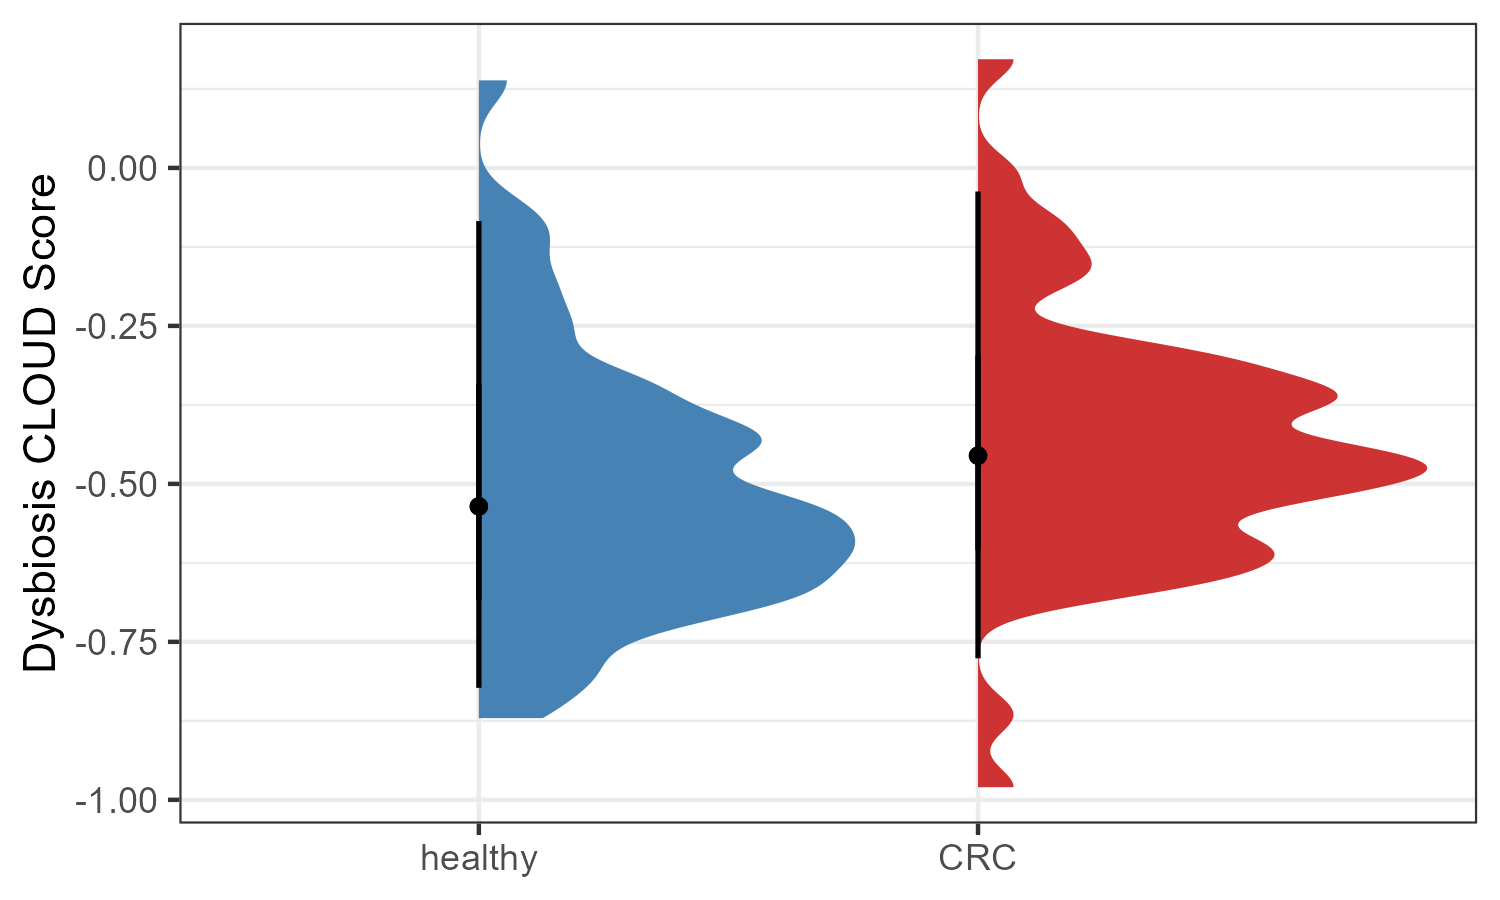
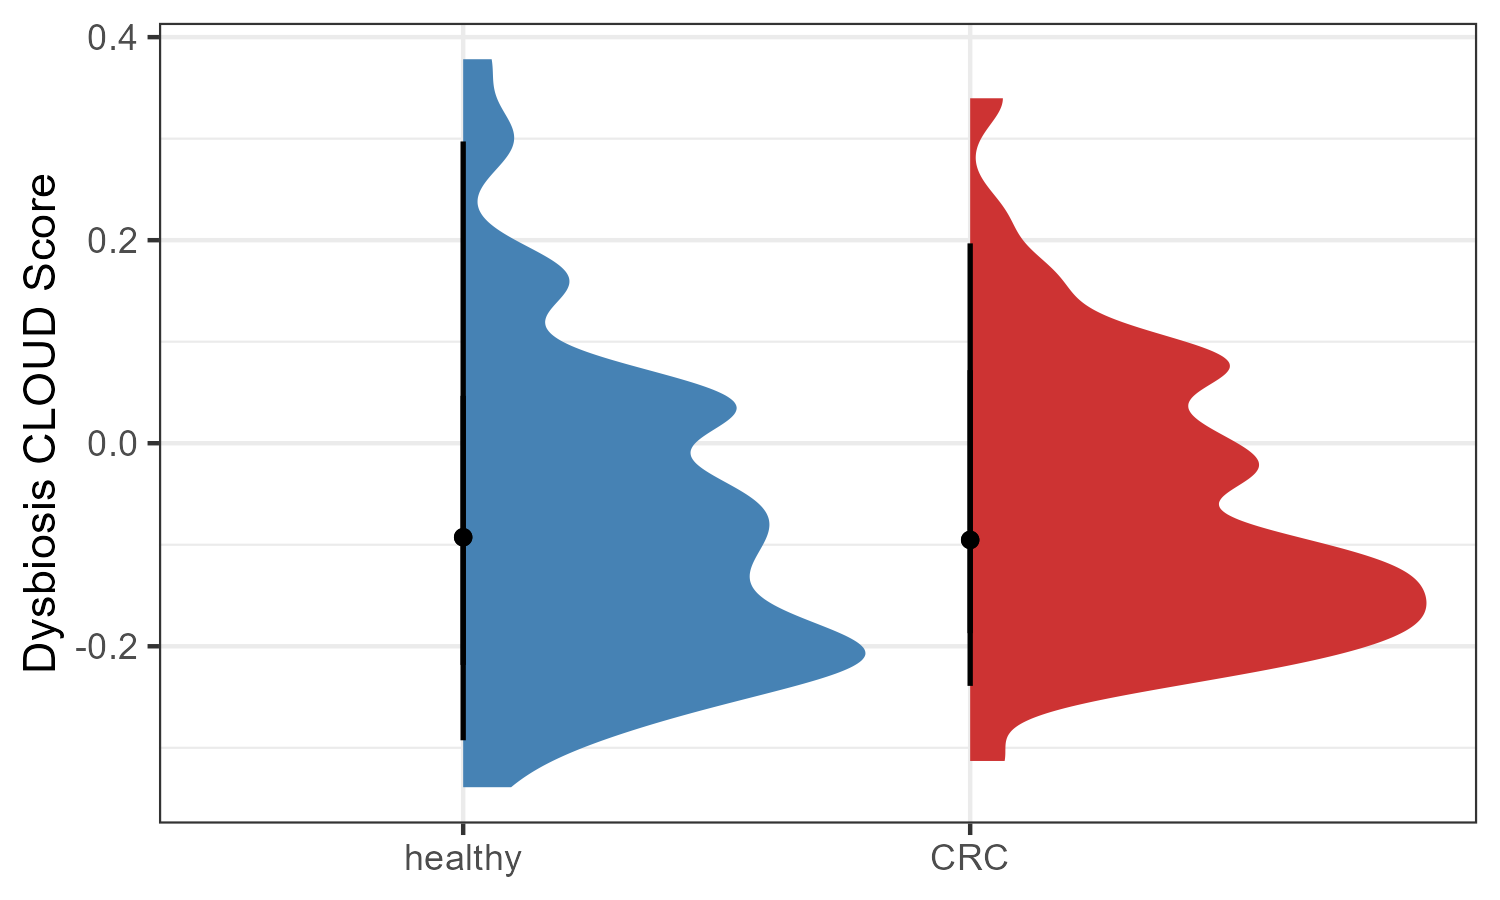
cleaning

diff --git a/docs/articles/Introduction.html b/docs/articles/Introduction.html
@@ -33,7 +33,7 @@
     
     <a class="navbar-brand me-2" href="../index.html">dysbiosisR</a>
 
-    <small class="nav-text text-muted me-auto" data-bs-toggle="tooltip" data-bs-placement="bottom" title="">0.1.0</small>
+    <small class="nav-text text-muted me-auto" data-bs-toggle="tooltip" data-bs-placement="bottom" title="">1.0.1</small>
 
     
     <button class="navbar-toggler" type="button" data-bs-toggle="collapse" data-bs-target="#navbar" aria-controls="navbar" aria-expanded="false" aria-label="Toggle navigation">
@@ -339,12 +339,16 @@ conservative 80 percent of the samples in each group.</p>
 <span>                                dist_mat <span class="op">=</span> <span class="va">dist.mat</span>,</span>
 <span>                                reference_samples <span class="op">=</span> <span class="va">ref.samples</span>,</span>
 <span>                                ndim<span class="op">=</span><span class="op">-</span><span class="fl">1</span>,</span>
-<span>                                k_num<span class="op">=</span><span class="fl">5</span><span class="op">)</span></span>
+<span>                                k_num<span class="op">=</span><span class="fl">80</span><span class="op">)</span></span>
 <span><span class="va">cloud.results</span><span class="op">[</span><span class="fl">1</span><span class="op">:</span><span class="fl">3</span>,<span class="fl">1</span><span class="op">:</span><span class="fl">5</span><span class="op">]</span></span>
-<span><span class="co">#&gt;                         stats pvals  log2Stats   study_name          subject_id</span></span>
-<span><span class="co">#&gt; CCMD10032470ST-11-0 0.6673767     1 -0.5834267 WirbelJ_2018 CCMD10032470ST-11-0</span></span>
-<span><span class="co">#&gt; CCMD10191450ST-11-0 0.6603512     1 -0.5986947 WirbelJ_2018 CCMD10191450ST-11-0</span></span>
-<span><span class="co">#&gt; CCMD11006829ST-21-0 0.8141492     1 -0.2966349 WirbelJ_2018 CCMD11006829ST-21-0</span></span></code></pre></div>
+<span><span class="co">#&gt;                         stats     pvals    log2Stats   study_name</span></span>
+<span><span class="co">#&gt; CCMD10032470ST-11-0 0.9033809 0.9062500 -0.146593618 WirbelJ_2018</span></span>
+<span><span class="co">#&gt; CCMD10191450ST-11-0 0.9684812 0.5468750 -0.046204044 WirbelJ_2018</span></span>
+<span><span class="co">#&gt; CCMD11006829ST-21-0 0.9989867 0.4237288 -0.001462691 WirbelJ_2018</span></span>
+<span><span class="co">#&gt;                              subject_id</span></span>
+<span><span class="co">#&gt; CCMD10032470ST-11-0 CCMD10032470ST-11-0</span></span>
+<span><span class="co">#&gt; CCMD10191450ST-11-0 CCMD10191450ST-11-0</span></span>
+<span><span class="co">#&gt; CCMD11006829ST-21-0 CCMD11006829ST-21-0</span></span></code></pre></div>
 <p>Here, the <code>log2Stats</code> can be used as a dysbiosis
 score.</p>
 <div class="sourceCode" id="cb17"><pre class="downlit sourceCode r">
@@ -439,16 +443,19 @@ To demonstrate this, we use the results from the
 <div class="sourceCode" id="cb21"><pre class="downlit sourceCode r">
 <code class="sourceCode R"><span></span>
 <span><span class="co"># define gradient cols</span></span>
-<span><span class="va">browns</span> <span class="op">&lt;-</span> <span class="fu"><a href="https://rdrr.io/r/base/c.html" class="external-link">c</a></span><span class="op">(</span><span class="st">"#723d46"</span>, <span class="st">"#86525b"</span>, <span class="st">"#996770"</span>, <span class="st">"#ad7d86"</span>, <span class="st">"#c1949d"</span>, <span class="st">"#d6abb4"</span>, <span class="st">"#eac3cc"</span>, <span class="st">"#ede5e6"</span><span class="op">)</span></span>
+<span><span class="va">browns</span> <span class="op">&lt;-</span> <span class="fu"><a href="https://rdrr.io/r/base/c.html" class="external-link">c</a></span><span class="op">(</span><span class="st">"#723d46"</span>, <span class="st">"#86525b"</span>, <span class="st">"#996770"</span>, <span class="st">"#ad7d86"</span>, </span>
+<span>            <span class="st">"#c1949d"</span>, <span class="st">"#d6abb4"</span>, <span class="st">"#eac3cc"</span>, <span class="st">"#ede5e6"</span><span class="op">)</span></span>
 <span></span>
 <span><span class="fu"><a href="../reference/plotDysbiosisGradient.html">plotDysbiosisGradient</a></span><span class="op">(</span>df<span class="op">=</span><span class="va">dysbiosis_1</span>,</span>
 <span>                      score<span class="op">=</span><span class="st">"score"</span>,</span>
 <span>                      high_line <span class="op">=</span> <span class="va">dysbiosis_thres</span>,</span>
 <span>                      low_line <span class="op">=</span> <span class="va">normobiosis_thres</span>,</span>
 <span>                      group_var <span class="op">=</span> <span class="st">"disease"</span>,</span>
-<span>                      group_colors<span class="op">=</span><span class="fu"><a href="https://rdrr.io/r/base/c.html" class="external-link">c</a></span><span class="op">(</span><span class="st">"healthy"</span> <span class="op">=</span> <span class="st">"steelblue"</span>, <span class="st">"CRC"</span><span class="op">=</span> <span class="st">"brown3"</span><span class="op">)</span>,</span>
+<span>                      group_colors<span class="op">=</span><span class="fu"><a href="https://rdrr.io/r/base/c.html" class="external-link">c</a></span><span class="op">(</span><span class="st">"healthy"</span> <span class="op">=</span> <span class="st">"steelblue"</span>, </span>
+<span>                                     <span class="st">"CRC"</span><span class="op">=</span> <span class="st">"brown3"</span><span class="op">)</span>,</span>
 <span>                      point_size <span class="op">=</span> <span class="fl">2</span>,</span>
-<span>                      bg_colors <span class="op">=</span> <span class="va">browns</span><span class="op">)</span></span></code></pre></div>
+<span>                      bg_colors <span class="op">=</span> <span class="va">browns</span><span class="op">)</span> <span class="op">+</span></span>
+<span>  <span class="fu"><a href="https://ggplot2.tidyverse.org/reference/labs.html" class="external-link">labs</a></span><span class="op">(</span>y<span class="op">=</span><span class="st">"Dysbiosis Score"</span><span class="op">)</span></span></code></pre></div>
 <p><img src="Introduction_files/figure-html/unnamed-chunk-21-1.png" width="50%"></p>
 <div class="sourceCode" id="cb22"><pre class="downlit sourceCode r">
 <code class="sourceCode R"><span><span class="fu"><a href="https://rdrr.io/r/utils/sessionInfo.html" class="external-link">sessionInfo</a></span><span class="op">(</span><span class="op">)</span></span>

diff --git a/docs/authors.html b/docs/authors.html
@@ -10,7 +10,7 @@
     
     <a class="navbar-brand me-2" href="index.html">dysbiosisR</a>
 
-    <small class="nav-text text-muted me-auto" data-bs-toggle="tooltip" data-bs-placement="bottom" title="">0.1.0</small>
+    <small class="nav-text text-muted me-auto" data-bs-toggle="tooltip" data-bs-placement="bottom" title="">1.0.1</small>
 
     
     <button class="navbar-toggler" type="button" data-bs-toggle="collapse" data-bs-target="#navbar" aria-controls="navbar" aria-expanded="false" aria-label="Toggle navigation">
@@ -64,13 +64,13 @@
 
       <p>Shetty S (2022).
 <em>dysbiosisR: Calculate Microbiome Dysbiosis</em>.
-R package version 0.1.0, <a href="https://github.com/microsud/dysbiosisR" class="external-link">https://github.com/microsud/dysbiosisR</a>. 
+R package version 1.0.1, <a href="https://github.com/microsud/dysbiosisR" class="external-link">https://github.com/microsud/dysbiosisR</a>. 
 </p>
       <pre>@Manual{,
   title = {dysbiosisR: Calculate Microbiome Dysbiosis},
   author = {Sudarshan Shetty},
   year = {2022},
-  note = {R package version 0.1.0},
+  note = {R package version 1.0.1},
   url = {https://github.com/microsud/dysbiosisR},
 }</pre>
     </div>

diff --git a/docs/articles/index.html b/docs/articles/index.html
@@ -10,7 +10,7 @@
     
     <a class="navbar-brand me-2" href="../index.html">dysbiosisR</a>
 
-    <small class="nav-text text-muted me-auto" data-bs-toggle="tooltip" data-bs-placement="bottom" title="">0.1.0</small>
+    <small class="nav-text text-muted me-auto" data-bs-toggle="tooltip" data-bs-placement="bottom" title="">1.0.1</small>
 
     
     <button class="navbar-toggler" type="button" data-bs-toggle="collapse" data-bs-target="#navbar" aria-controls="navbar" aria-expanded="false" aria-label="Toggle navigation">

diff --git a/docs/news/index.html b/docs/news/index.html
@@ -10,7 +10,7 @@
     
     <a class="navbar-brand me-2" href="../index.html">dysbiosisR</a>
 
-    <small class="nav-text text-muted me-auto" data-bs-toggle="tooltip" data-bs-placement="bottom" title="">0.1.0</small>
+    <small class="nav-text text-muted me-auto" data-bs-toggle="tooltip" data-bs-placement="bottom" title="">1.0.1</small>
 
     
     <button class="navbar-toggler" type="button" data-bs-toggle="collapse" data-bs-target="#navbar" aria-controls="navbar" aria-expanded="false" aria-label="Toggle navigation">

diff --git a/docs/reference/WirbelJ_2018.html b/docs/reference/WirbelJ_2018.html
@@ -12,7 +12,7 @@
     
     <a class="navbar-brand me-2" href="../index.html">dysbiosisR</a>
 
-    <small class="nav-text text-muted me-auto" data-bs-toggle="tooltip" data-bs-placement="bottom" title="">0.1.0</small>
+    <small class="nav-text text-muted me-auto" data-bs-toggle="tooltip" data-bs-placement="bottom" title="">1.0.1</small>
 
     
     <button class="navbar-toggler" type="button" data-bs-toggle="collapse" data-bs-target="#navbar" aria-controls="navbar" aria-expanded="false" aria-label="Toggle navigation">

diff --git a/docs/reference/cloudStatistic.html b/docs/reference/cloudStatistic.html
@@ -10,7 +10,7 @@
     
     <a class="navbar-brand me-2" href="../index.html">dysbiosisR</a>
 
-    <small class="nav-text text-muted me-auto" data-bs-toggle="tooltip" data-bs-placement="bottom" title="">0.1.0</small>
+    <small class="nav-text text-muted me-auto" data-bs-toggle="tooltip" data-bs-placement="bottom" title="">1.0.1</small>
 
     
     <button class="navbar-toggler" type="button" data-bs-toggle="collapse" data-bs-target="#navbar" aria-controls="navbar" aria-expanded="false" aria-label="Toggle navigation">

diff --git a/docs/reference/combinedShannonJSD.html b/docs/reference/combinedShannonJSD.html
@@ -10,7 +10,7 @@
     
     <a class="navbar-brand me-2" href="../index.html">dysbiosisR</a>
 
-    <small class="nav-text text-muted me-auto" data-bs-toggle="tooltip" data-bs-placement="bottom" title="">0.1.0</small>
+    <small class="nav-text text-muted me-auto" data-bs-toggle="tooltip" data-bs-placement="bottom" title="">1.0.1</small>
 
     
     <button class="navbar-toggler" type="button" data-bs-toggle="collapse" data-bs-target="#navbar" aria-controls="navbar" aria-expanded="false" aria-label="Toggle navigation">

diff --git a/docs/reference/dysbiosisMedianCLV.html b/docs/reference/dysbiosisMedianCLV.html
@@ -10,7 +10,7 @@
     
     <a class="navbar-brand me-2" href="../index.html">dysbiosisR</a>
 
-    <small class="nav-text text-muted me-auto" data-bs-toggle="tooltip" data-bs-placement="bottom" title="">0.1.0</small>
+    <small class="nav-text text-muted me-auto" data-bs-toggle="tooltip" data-bs-placement="bottom" title="">1.0.1</small>
 
     
     <button class="navbar-toggler" type="button" data-bs-toggle="collapse" data-bs-target="#navbar" aria-controls="navbar" aria-expanded="false" aria-label="Toggle navigation">

diff --git a/docs/reference/dysbiosisOBB.html b/docs/reference/dysbiosisOBB.html
@@ -10,7 +10,7 @@
     
     <a class="navbar-brand me-2" href="../index.html">dysbiosisR</a>
 
-    <small class="nav-text text-muted me-auto" data-bs-toggle="tooltip" data-bs-placement="bottom" title="">0.1.0</small>
+    <small class="nav-text text-muted me-auto" data-bs-toggle="tooltip" data-bs-placement="bottom" title="">1.0.1</small>
 
     
     <button class="navbar-toggler" type="button" data-bs-toggle="collapse" data-bs-target="#navbar" aria-controls="navbar" aria-expanded="false" aria-label="Toggle navigation">

diff --git a/docs/reference/dysbiosisOverview.html b/docs/reference/dysbiosisOverview.html
@@ -10,7 +10,7 @@
     
     <a class="navbar-brand me-2" href="../index.html">dysbiosisR</a>
 
-    <small class="nav-text text-muted me-auto" data-bs-toggle="tooltip" data-bs-placement="bottom" title="">0.1.0</small>
+    <small class="nav-text text-muted me-auto" data-bs-toggle="tooltip" data-bs-placement="bottom" title="">1.0.1</small>
 
     
     <button class="navbar-toggler" type="button" data-bs-toggle="collapse" data-bs-target="#navbar" aria-controls="navbar" aria-expanded="false" aria-label="Toggle navigation">

diff --git a/docs/reference/euclideanDistCentroids.html b/docs/reference/euclideanDistCentroids.html
@@ -10,7 +10,7 @@
     
     <a class="navbar-brand me-2" href="../index.html">dysbiosisR</a>
 
-    <small class="nav-text text-muted me-auto" data-bs-toggle="tooltip" data-bs-placement="bottom" title="">0.1.0</small>
+    <small class="nav-text text-muted me-auto" data-bs-toggle="tooltip" data-bs-placement="bottom" title="">1.0.1</small>
 
     
     <button class="navbar-toggler" type="button" data-bs-toggle="collapse" data-bs-target="#navbar" aria-controls="navbar" aria-expanded="false" aria-label="Toggle navigation">

diff --git a/docs/reference/index.html b/docs/reference/index.html
@@ -10,7 +10,7 @@
     
     <a class="navbar-brand me-2" href="../index.html">dysbiosisR</a>
 
-    <small class="nav-text text-muted me-auto" data-bs-toggle="tooltip" data-bs-placement="bottom" title="">0.1.0</small>
+    <small class="nav-text text-muted me-auto" data-bs-toggle="tooltip" data-bs-placement="bottom" title="">1.0.1</small>
 
     
     <button class="navbar-toggler" type="button" data-bs-toggle="collapse" data-bs-target="#navbar" aria-controls="navbar" aria-expanded="false" aria-label="Toggle navigation">
